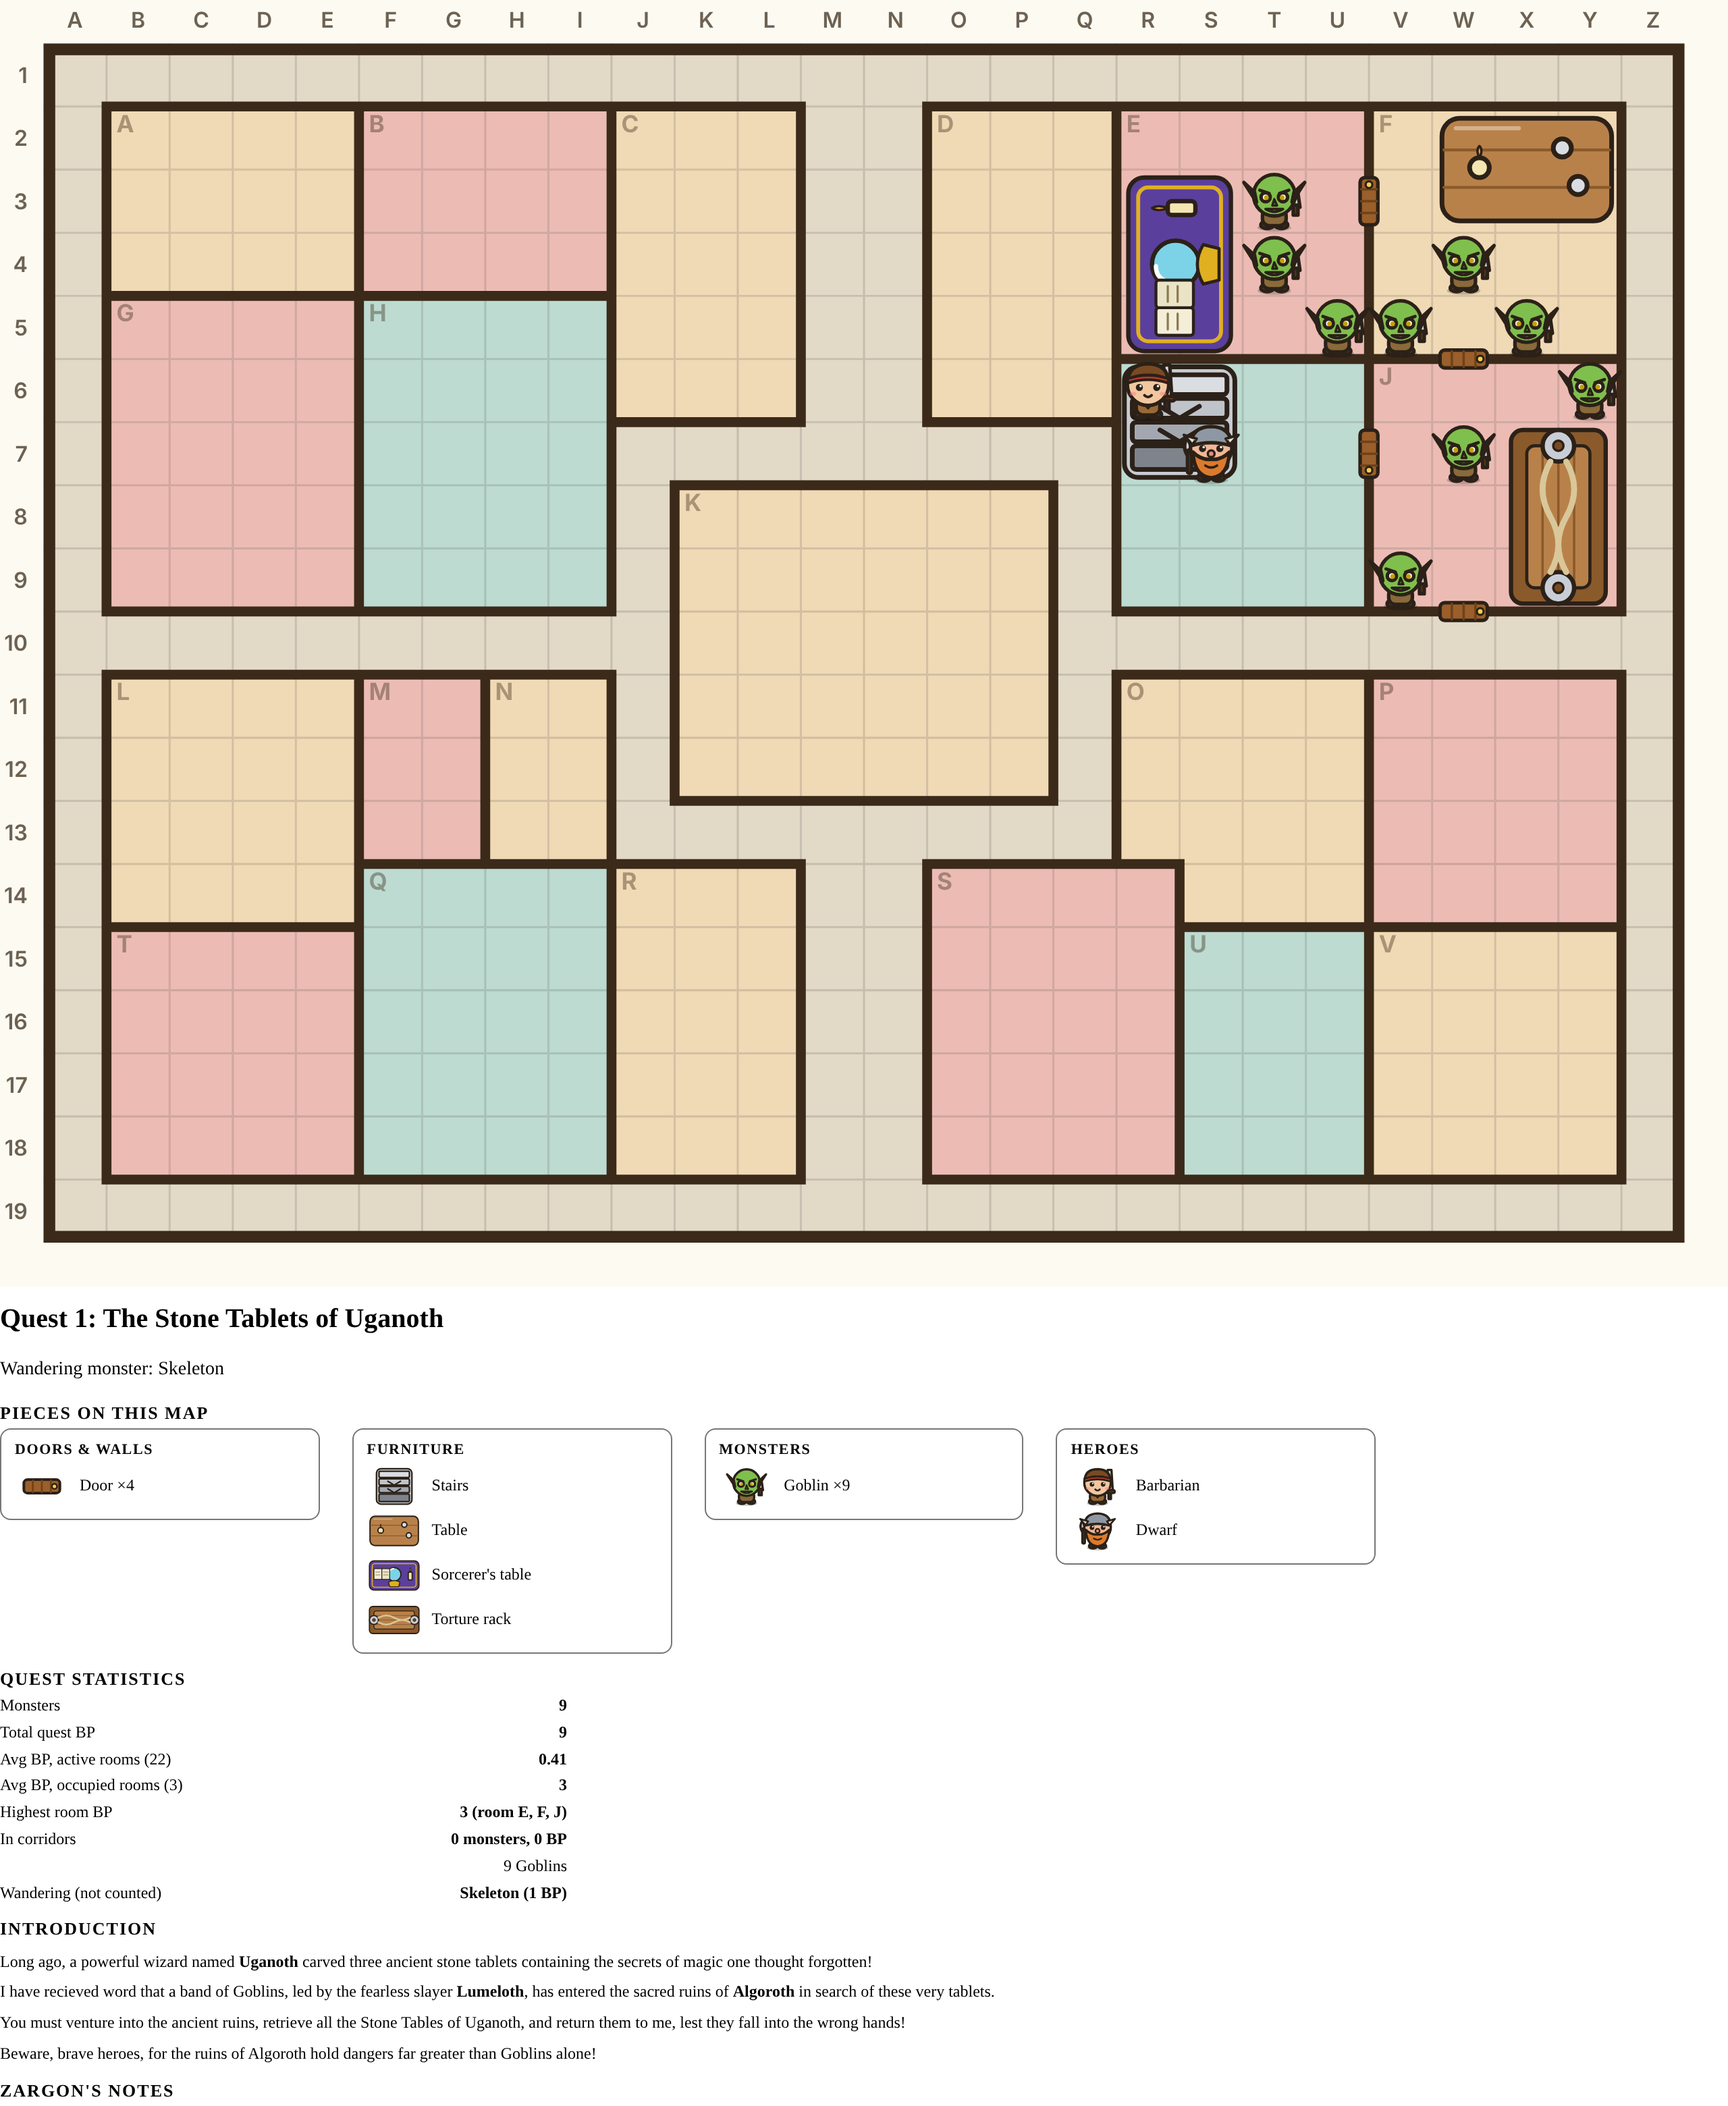
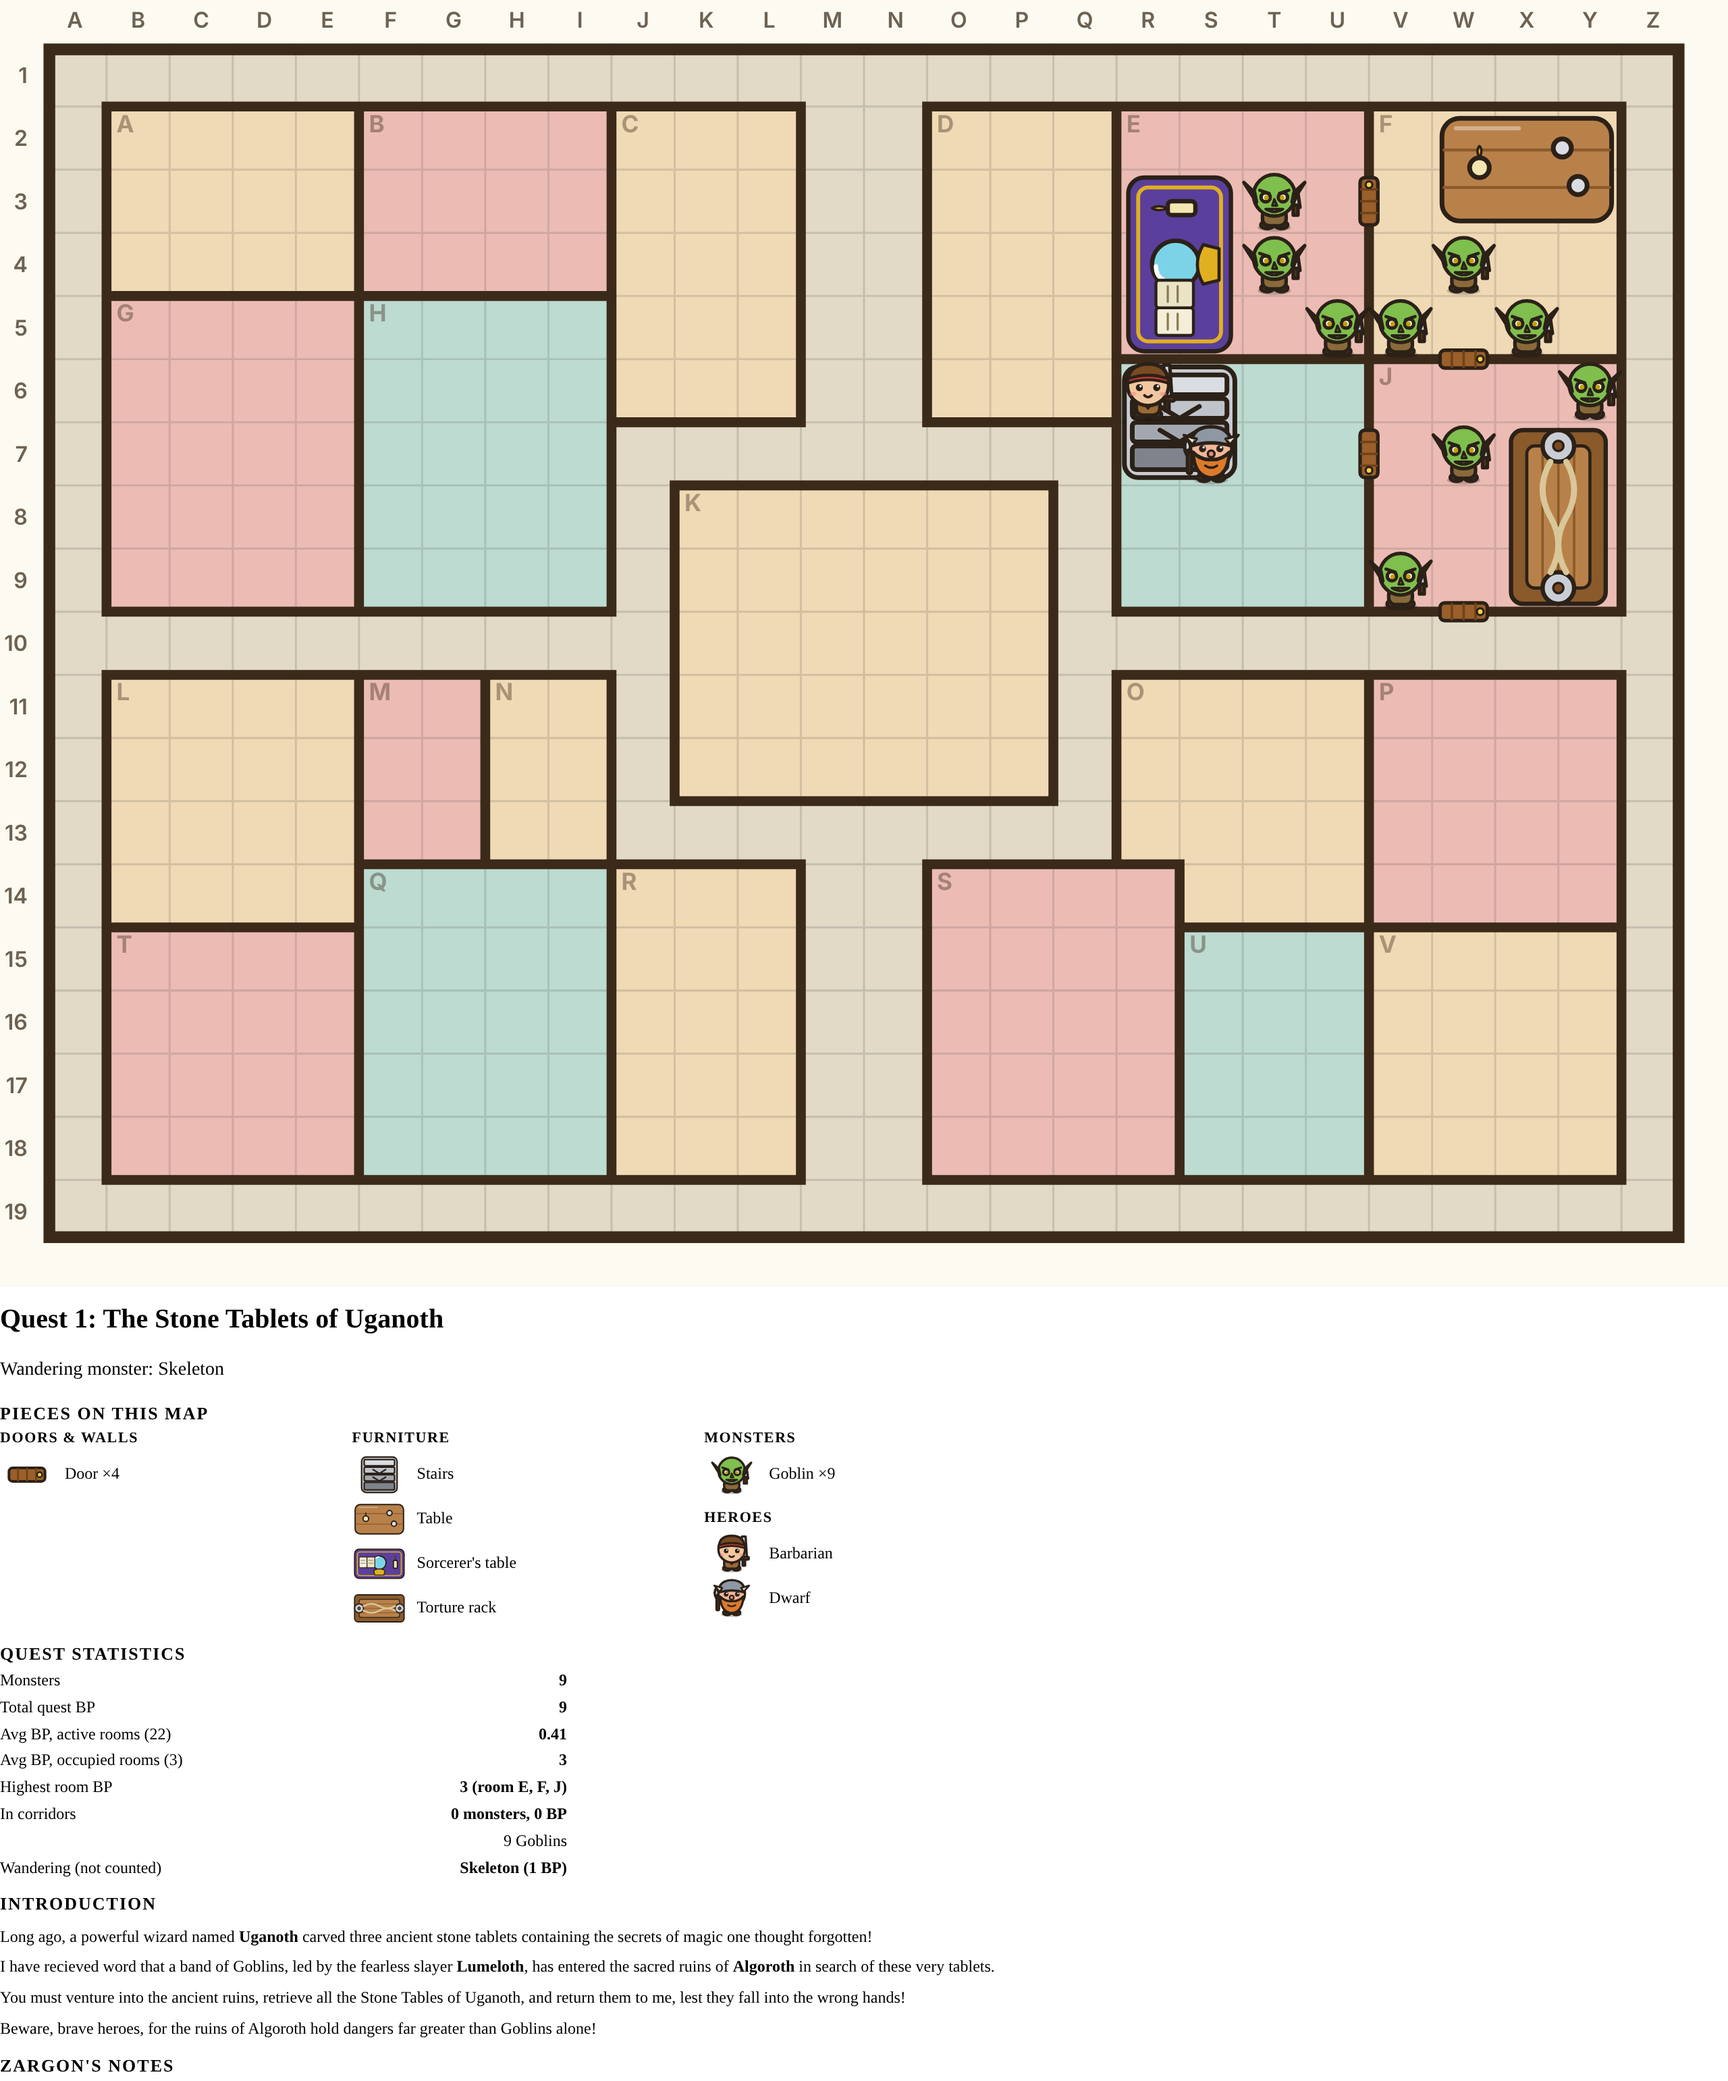
style: no borders around the key groups on the print page
Keep the bordered group cards in the Pieces on this map key on the map-making
screen, but print the key as plain group headings and lists without boxes.
Refresh the screenshots.

This work was substantially AI-generated with human review and
direction throughout.

Vibe-Coder: Vibe-Coder 1.z3r0 <243014891+vibecoder-1z3r0@users.noreply.github.com>

diff --git a/src/style.css b/src/style.css
@@ -184,7 +184,7 @@ kbd { background: var(--panel2); border: 1px solid var(--border); border-radius:
   #printsheet table, #printsheet th, #printsheet td { border: 1px solid #000; }
   #printsheet .stats { font-size: 12px; max-width: 420px; }
   #printsheet .piece-key { font-size: 12px; }
-  #printsheet .piece-key .keygroup { background: #fff; border-color: #777; }
+  #printsheet .piece-key .keygroup { border: 0; background: none; padding: 0; margin-bottom: 10px; }
   #printsheet .piece-key h4 { color: #000; }
   #printsheet .piece-key .keycount { color: #000; }
   #printsheet .stats dt, #printsheet .stats dd { color: #000; }
